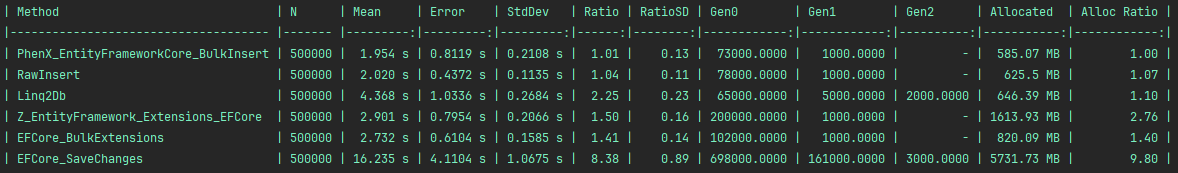
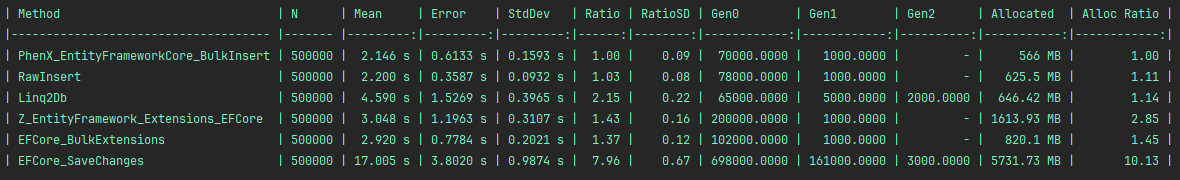
Fix linq2db benchmark

diff --git a/tests/PhenX.EntityFrameworkCore.BulkInsert.Benchmark/LibComparator.cs b/tests/PhenX.EntityFrameworkCore.BulkInsert.Benchmark/LibComparator.cs
@@ -5,6 +5,7 @@ using DotNet.Testcontainers.Containers;
 
 using EFCore.BulkExtensions;
 
+using LinqToDB.Data;
 using LinqToDB.EntityFrameworkCore;
 
 using PhenX.EntityFrameworkCore.BulkInsert.Extensions;
@@ -94,7 +95,10 @@ public abstract partial class LibComparator
     [Benchmark]
     public async Task Linq2Db()
     {
-        await DbContext.BulkCopyAsync(data);
+        await DbContext.BulkCopyAsync(new BulkCopyOptions
+        {
+            BulkCopyType = BulkCopyType.ProviderSpecific,
+        }, data);
     }
 
     [Benchmark]
